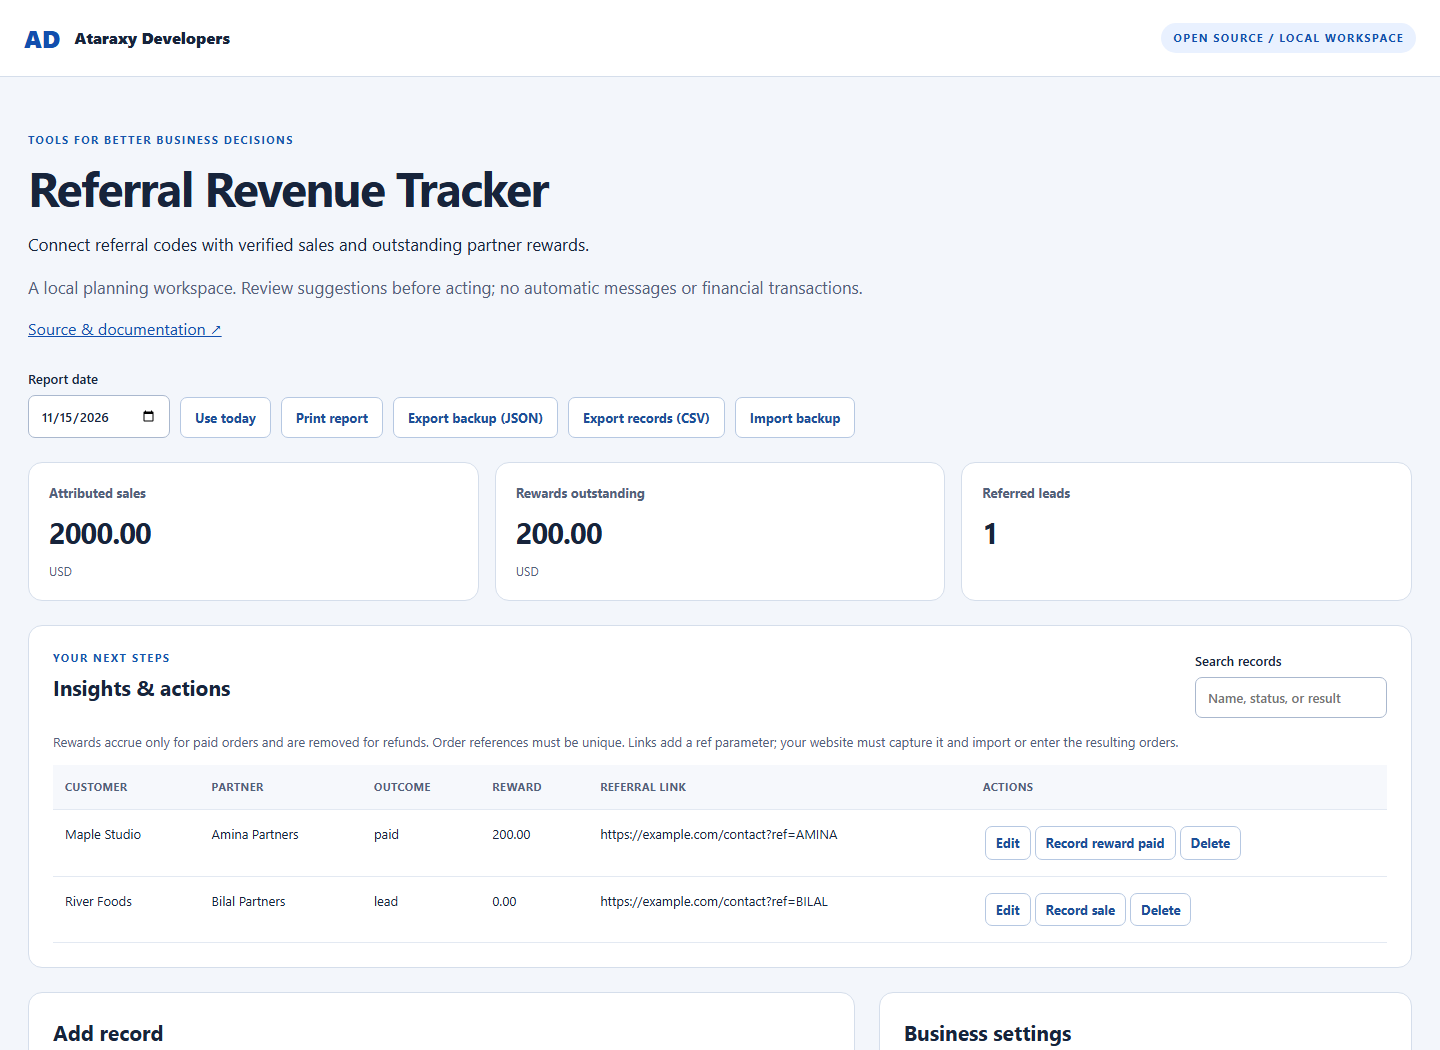
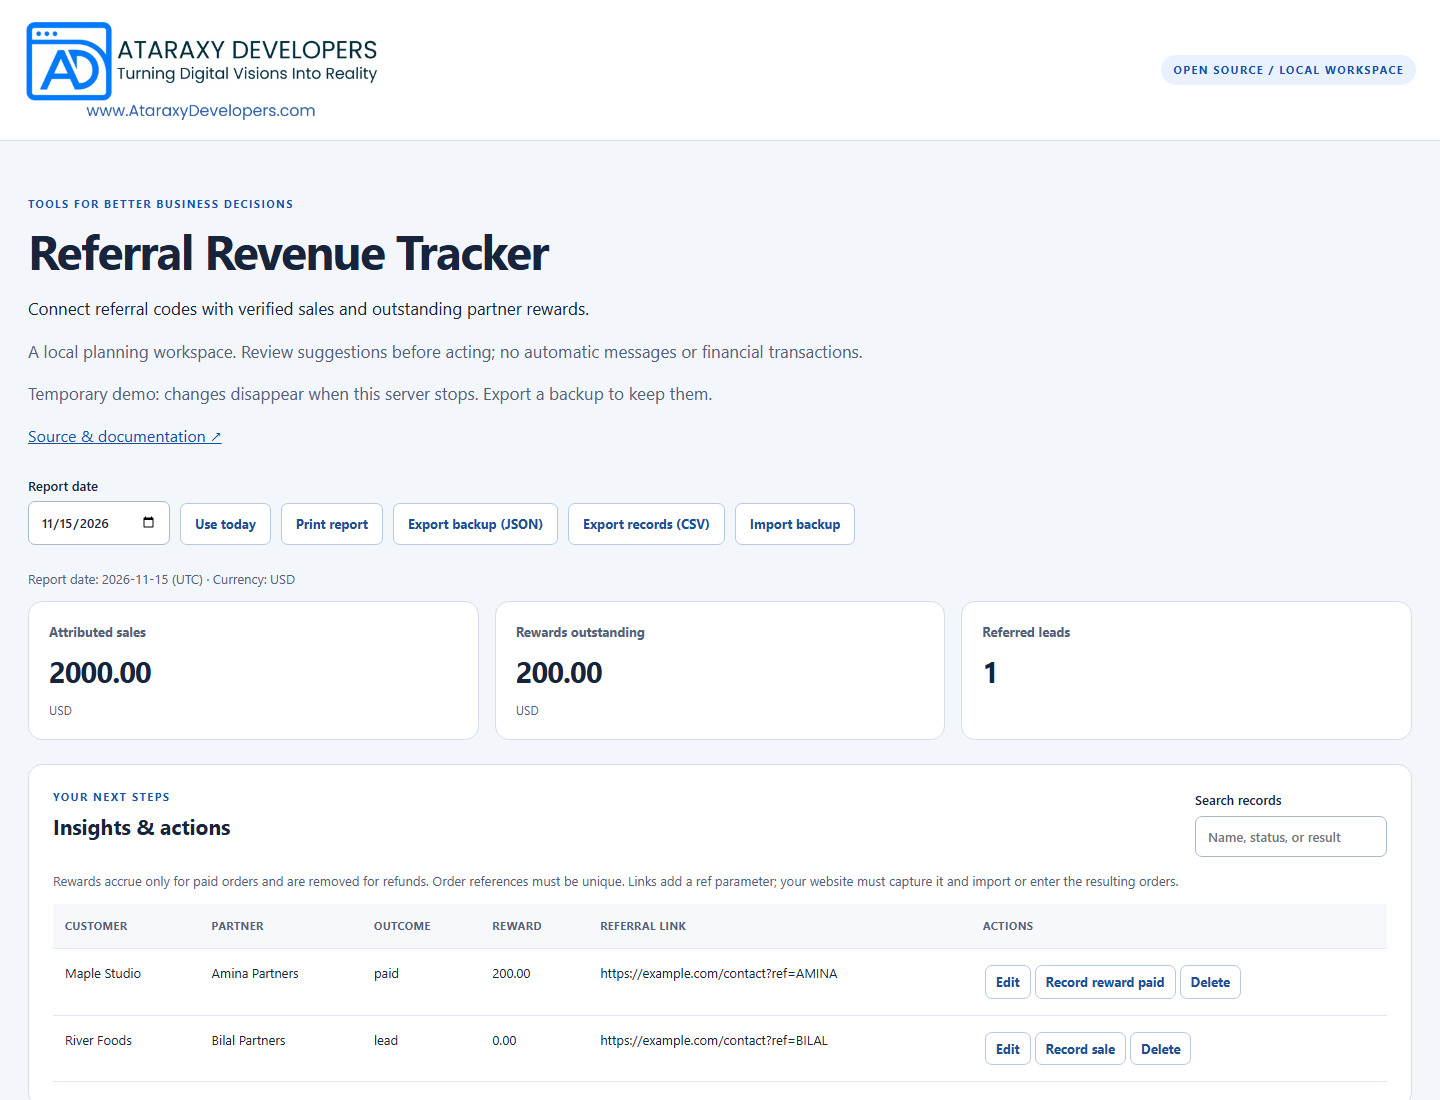
Use approved Ataraxy Developers branding

diff --git a/public/index.html b/public/index.html
@@ -4,16 +4,14 @@
     <meta charset="utf-8" />
     <meta name="viewport" content="width=device-width,initial-scale=1" />
     <title>Business workspace · Ataraxy Developers</title>
-    <link rel="icon" href="/favicon.svg" />
+    <link rel="icon" href="/ataraxy-developers-logo.png" type="image/png" />
     <link rel="stylesheet" href="/style.css" />
     <script type="module" src="/app.js"></script>
   </head>
   <body>
     <a class="skip" href="#main">Skip to workspace</a>
     <header>
-      <a class="brand" href="https://ataraxydevelopers.com"
-        >AD <span>Ataraxy Developers</span></a
-      ><span class="badge">OPEN SOURCE / LOCAL WORKSPACE</span>
+      <a class="brand" href="https://ataraxydevelopers.com"><img src="/ataraxy-developers-logo.png" alt="Ataraxy Developers — Turning Digital Visions Into Reality" width="1127" height="313" /></a><span class="badge">OPEN SOURCE / LOCAL WORKSPACE</span>
     </header>
     <main id="main">
       <section class="hero">

diff --git a/public/style.css b/public/style.css
@@ -40,10 +40,6 @@ header {
   font-weight: 800;
   text-decoration: none;
 }
-.brand span {
-  font-size: 16px;
-  color: #17243b;
-}
 .badge,
 .eyebrow {
   font-size: 11px;
@@ -364,3 +360,9 @@ footer {
     font-size: 27px;
   }
 }
+
+/* Use the complete, original company artwork without distortion. */
+header { flex-wrap: wrap; gap: 16px; background: #fff; }
+.brand { display: block; flex: 0 1 360px; min-width: 0; max-width: 100%; background: #fff; }
+.brand img { display: block; width: 360px; max-width: 100%; height: auto; }
+@media (max-width: 600px) { header { padding: 18px 20px; } .brand { flex-basis: 360px; } }

diff --git a/BRANDING.md b/BRANDING.md
@@ -1,0 +1,10 @@
+# Ataraxy Developers branding
+
+The company-approved logo is [public/ataraxy-developers-logo.png](public/ataraxy-developers-logo.png). It is the original PNG supplied by Ataraxy Developers on 2026-11-16, unchanged.
+
+- Preserve the complete artwork, its aspect ratio, and its white background.
+- Do not redraw it or substitute typed initials, an invented monogram, or generated artwork.
+- Use readable sizing and descriptive alternative text.
+- Capture screenshots from the working interface after this logo has loaded.
+
+SHA-256: 87ebc5a0092af0fff4524e805730ca3dc97c4483bd49f866528b8cdb97d422e7

diff --git a/README.md b/README.md
@@ -1,3 +1,5 @@
+<p><a href="https://ataraxydevelopers.com"><img src="public/ataraxy-developers-logo.png" alt="Ataraxy Developers — Turning Digital Visions Into Reality" width="520"></a></p>
+
 # Referral Revenue Tracker
 
 [![CI](https://github.com/AtaraxyDevelopers/referral-revenue-tracker/actions/workflows/ci.yml/badge.svg)](https://github.com/AtaraxyDevelopers/referral-revenue-tracker/actions/workflows/ci.yml)

diff --git a/CHANGELOG.md b/CHANGELOG.md
@@ -1,5 +1,9 @@
 # Changelog
 
+## 0.1.2 — 2026-11-16
+
+Use the original, approved Ataraxy Developers logo and document its source. Update the interface and browser icon, serve the PNG correctly, and replace the README screenshot with a capture of the corrected app.
+
 ## 0.1.1
 
 - Correct optional date defaults when adding records.
